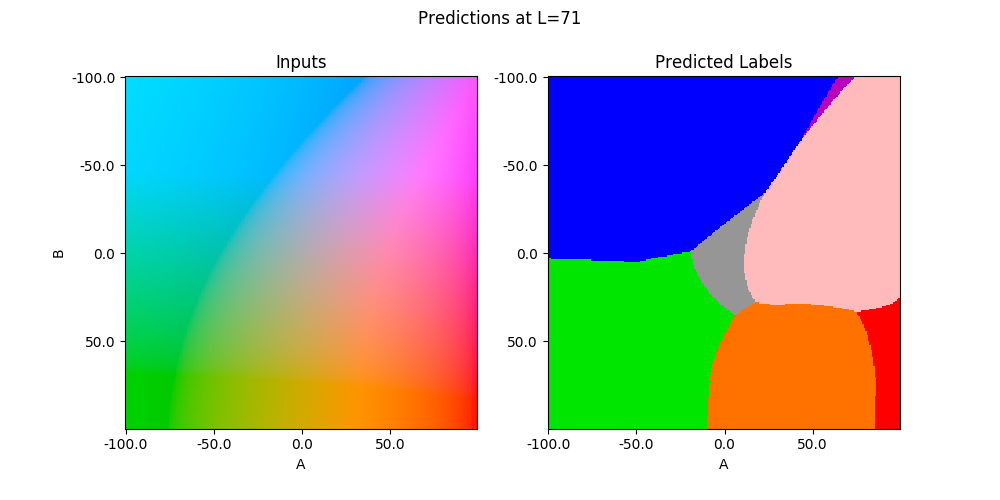
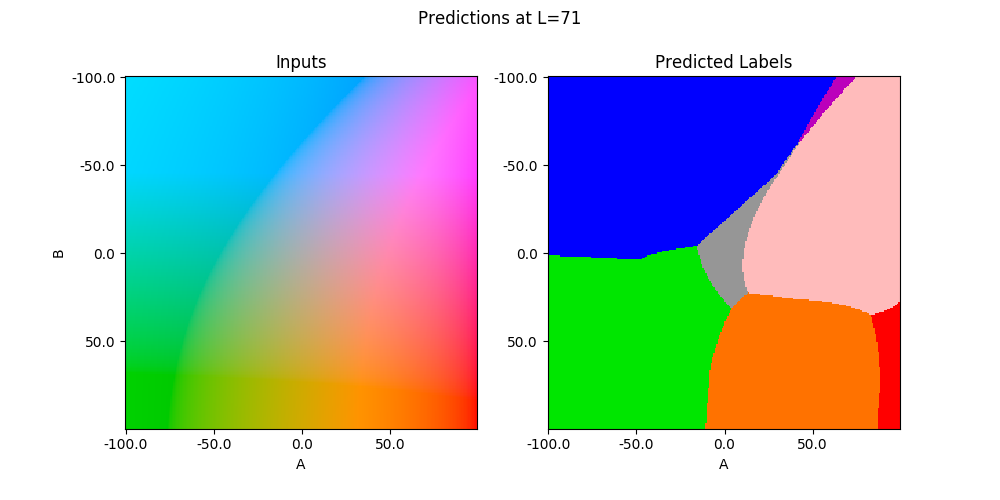
cmpt 318: e7 - finished all but the colours

diff --git a/cmpt318/e7/regress_cpu.py b/cmpt318/e7/regress_cpu.py
@@ -11,6 +11,7 @@ import pandas as pd
 import matplotlib.pyplot as plt
 import sys
 from pykalman import KalmanFilter
+from sklearn import linear_model
 
 columns = ['temperature', 'cpu_percent', 'fan_rpm', 'sys_load_1']
 training_data_file = sys.argv[1]
@@ -22,7 +23,14 @@ def get_data(filename):
     Read the given CSV file. Return (sysinfo DataFrame, array of X (input) values, array of y (known output) values).
     """
     sysinfo = pd.read_csv(filename, parse_dates=[0])
-    sysinfo['next_temp'] = 30  # TODO: fill in the to-be-predicted temperature
+    # Credit to ggbaker for providing the tip to use shift()
+    # from: http://pandas.pydata.org/pandas-docs/stable/generated/pandas.Series.shift.html
+    sysinfo['next_temp'] = sysinfo['temperature'].shift(1)
+
+    # Remove NaN as described in: 
+    # http://pandas.pydata.org/pandas-docs/version/0.17.0/generated/pandas.DataFrame.dropna.html
+    sysinfo.dropna(inplace=True)
+    # sysinfo['next_temp'] = 30  # TODO - DONE: fill in the to-be-predicted temperature
     return sysinfo, sysinfo[columns].values, sysinfo['next_temp'].values
 
 
@@ -34,8 +42,13 @@ def get_trained_coefficients():
     """
     _, X_train, y_train = get_data(training_data_file)
 
-    # TODO: create regression model and train.
-
+    # TODO - DONE: create regression model and train.
+    # Credit to ggbaker for the tip on using scikit-learn linear regression
+    # from: http://scikit-learn.org/stable/modules/generated/sklearn.linear_model.LinearRegression.html
+    # and not to fit an intercept
+    model = linear_model.LinearRegression(fit_intercept=False)
+    model.fit(X_train, y_train)
+    coefficients = model.coef_
     return model, coefficients
 
 
@@ -71,9 +84,11 @@ def smooth_test(coef):
     initial = X_test[0]
     observation_covariance = np.diag([observation_stddev, 2, 10, 1]) ** 2
     transition_covariance = np.diag([transition_stddev, 80, 100, 10]) ** 2
-    transition = np.eye(dims) # transition = identity for all variables
-
+    
     # TODO: update transition to incorporate coef  # ... except temperature, which was the point of all this.
+    transition = np.eye(dims) # transition = identity for all variables
+    transition = transition * coef # Multiply the coefficients onto the indentity matrix ..
+    transition[0] = [1, 0, 0, 0] # .. but don't touch the temperature
 
     kf = KalmanFilter(
         initial_state_mean=initial,

diff --git a/cmpt318/e7/colour_bayes.py b/cmpt318/e7/colour_bayes.py
@@ -108,7 +108,7 @@ def main():
     # There's no built-in transformer that does colour space conversion,
     # instead use function rgb2lab in a FunctionTransformer
     # Can create a pipeline where the first step is a transformer, and the second is a Gaussian
-    # pipeline = make_pipeline(FunctionTransformer(rgb_to_lab), GaussianNB(priors=None))
+    pipeline = make_pipeline(FunctionTransformer(rgb_to_lab), GaussianNB())
     
     # Will need to do a little NumPy reshaping
     # Reshape the array of colours to an image 1 x n (.reshape(1, -1, 3))
@@ -116,8 +116,9 @@ def main():
     # Couldn't get the pipeline method to work as described in the exercise description
     # Instead, convert the X training data back to RGB and feed it to the rgb2lab function
     # Reshape back, and feed it into the gaussian model, continue as before.
-    X_train = X_train * 255 # Convert back into RGB values
+    # X_train = X_train * 255 # Convert back into RGB values
     X_re_train = X_train.reshape((1, -1, 3))
+    pipeline.fit(X_train.reshape(1, -1, 3), y)
     X_lab = rgb_to_lab(X_re_train) # Convert to LAB values
     model = GaussianNB(priors=None)
     model_lab = model.fit(X_lab, y_train)
